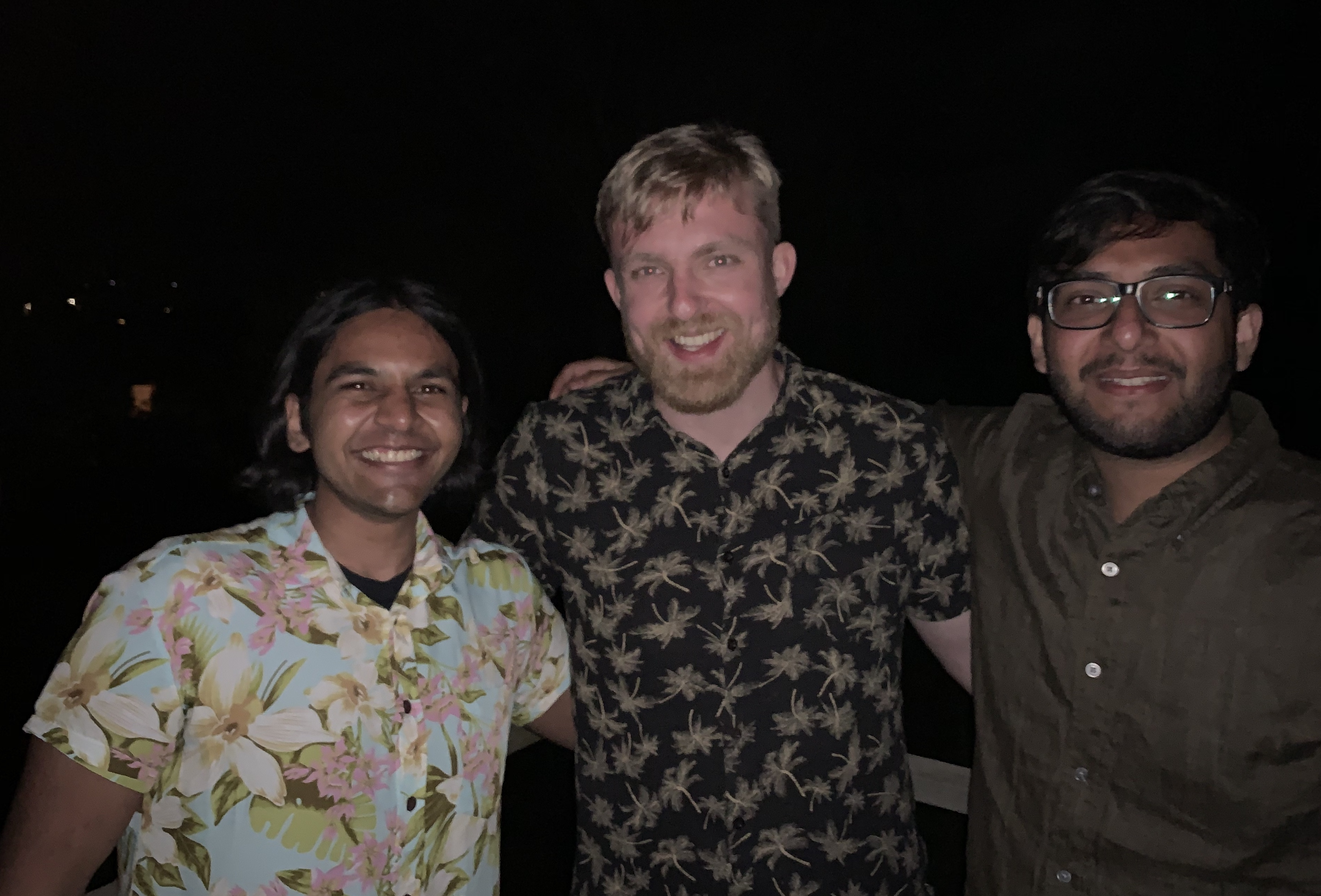
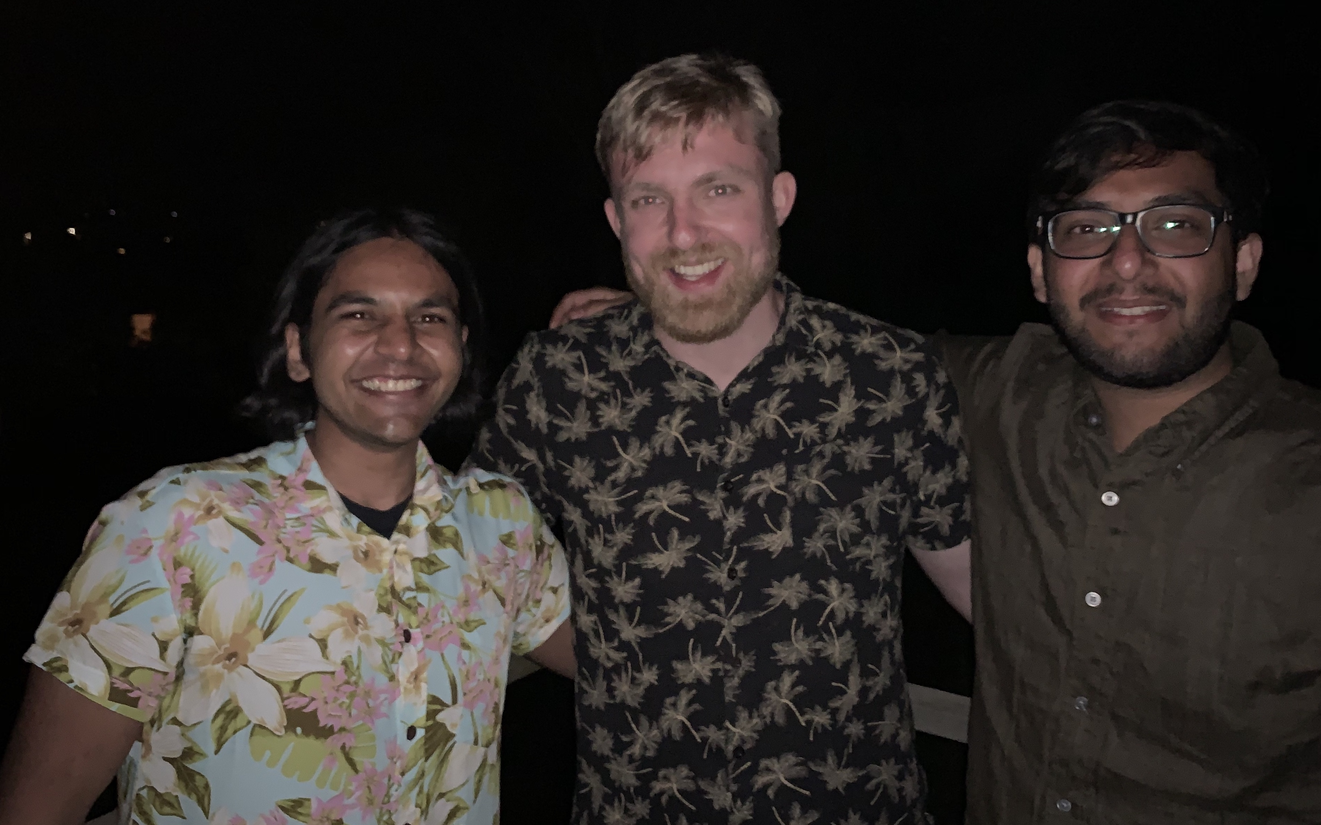
Crop pic of John and Asil

diff --git a/src/pages/about/friendships_photo/friendships_photo.module.css b/src/pages/about/friendships_photo/friendships_photo.module.css
@@ -51,7 +51,7 @@
 .johnAsil {
   width: 28%;
   left: 37%;
-  top: -17.19%;
+  top: -15.19%;
 }
 
 .josh {
